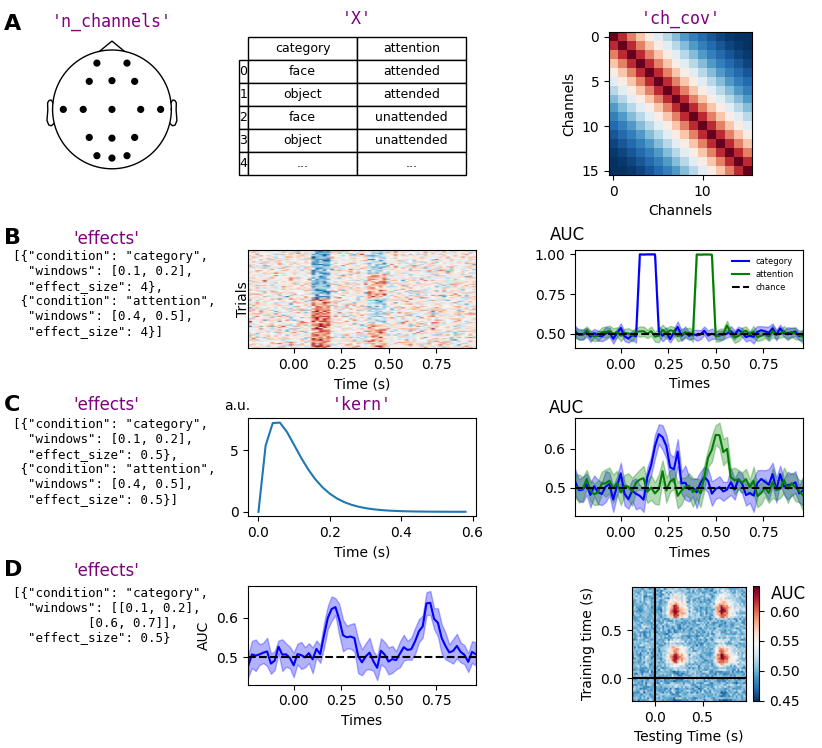
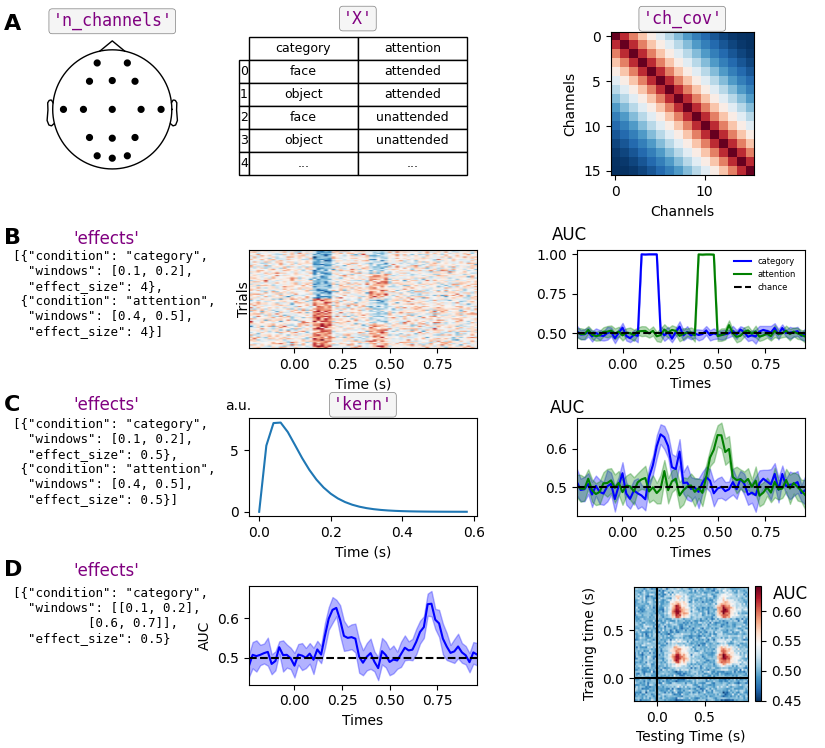
Update paper

diff --git a/paper/paper.md b/paper/paper.md
@@ -69,7 +69,7 @@ Below, we describe the rationale (Statement of needs), and the data-generation m
 
 Multivariate pattern analysis (MVPA) is now routine in cognitive neuroscience for probing how the brain represents information [@ritchie2019decoding;@haynes2006decoding;@kriegeskorte2008representational;@haxby2001distributed;@poldrack2009decoding]. Applied to high-temporal-resolution electrophysiology signals such as electro and magneto-encephalography (EEG and MEG respectively), decoding techniques reveal the millisecond-by-millisecond unfolding of mental representations [@cichy2014resolving;@king2014characterizing;@king2016brain;@cogitate2025adversarial;@kok2017prior]. Strikingly, despite the ubiquity of MVPA techniques, to our knowledge, no method exists to test the sensitivity and specificity of decoding analysis pipelines, nor to estimate, before data collection, how many trials and how many participants are required to detect an effect of a given size.
 
-MultiSim addresses this gap by letting investigators simulate time-resolved multi-channel signals with paramaters matching that of their recording setups, and specify multivariate effects with known timing, spatialization and strength, while controlling channel covariance, sensory noise and between subjects variability (see code block below for a minimal working example and \autoref{fig:pipeline} for a visualization of the pipeline). Our algorithm produces multi-subject data sets in which ground truth effects are known. By running their pipeline on these data, researchers obtain a direct read-out of its true-positive rate (can it recover the injected effects?) and false-positive rate (does it raise alarms when nothing is present). In addition, our simulator can be used to perform computational power analysis, to determine the number of trials and subjects, by iterating over these parameters.
+MultiSim addresses this gap by letting investigators simulate time-resolved multi-channel signals with paramaters matching that of their recording setups, and specify multivariate effects with known timing, spatialization and strength, while controlling channel covariance, sensory noise and between subjects variability. The code block below provides a minimal example, highlighting the simplicity with which multivariate effects can be specified with our toolbox (see \autoref{fig:pipeline}**A** for a visual representation of key parameters):
 
 ```python
 import numpy as np
@@ -90,10 +90,11 @@ sims = Simulator(
 sim.summary()  # Should return 20 subjects
 ```
 
-This toolbox promotes best-practice MVPA by giving researchers a tailored benchmark for their specific experimental designs, a testbed for developing new decoding methods, and a principled way to check that planned studies are properly powered—ultimately enabling more reliable and efficient investigations of brain function.
+Our algorithm produces multi-subject data sets in which ground truth effects are known with precise timiming (see \autoref{fig:pipeline}**B**). Furthermore, our pipelines enable full flexibility regarding the temporal dynamics of the effects (see see \autoref{fig:pipeline}**C**) as well as the temporal generalization of the injected effects (see \autoref{fig:pipeline}**D**), enabling the simulation of all patterns presented by [@king2014characterizing] (Figure 2). By running custom analysis pipeline on simulated data, researchers obtain a direct read-out of its true-positive rate (can it recover the injected effects?) and false-positive rate (does it raise alarms when nothing is present?). In addition, our simulator can be used to perform computational power analysis, to determine the number of trials and subjects, by iterating over these parameters.
 
 ![**Figure 1. Overview of the simulation and decoding framework.** **A**. General data parameters for the simulation. Left: `n_channels`  corresponds to the number of channels in the montage, with 2 experimental conditions. Middle: `X` is the design matrix (each column is an experimental condition and each row a trial). Right:  `ch_cov` is the channel by channel covariance matrix of the data to be simulated.  **B**. Minimal simulation example with effects for each experimental condition with large effect size. Left: `effects` is a dictionary that specifies the `"condition"`, time window (`"windows"`) and effect size (`"effect_size"`) of each effect to simulate. The example specifies an effect of category from 0.1 and 0.2 s with an effect size of 4, and an effect of the attention condition from 0.4 to 0.5 with an effect size of 4. Middle: example of the activation of a single channel. Right: resulting decoding accuracy (using a Support vector machine classifier). **C**. Example of simulated effects with a an added gamma kernel to simulate effects with biologically plausible temporal dynamcs. Left: `effects` similar to that of B but with effect size of 0.5 for each condition. Middle: gamma `kernel`, specifying the temporal dynamics of the multivariate effect. Right: Resulting decoding accuracy. **D**. example of simulated data with cross temporal generalization of the category effect. Left: `effects` dictionary specifies two different time windows for the effect of category as a list. Middle: resulting decoding accuracy. Right: Temporal generalization of the decoding.\label{fig:pipeline}](figure1.png){width=100%}
 
+This toolbox promotes best-practice MVPA by giving researchers a tailored benchmark for their specific experimental designs, a testbed for developing new decoding methods, and a principled way to check that planned studies are properly powered—ultimately enabling more reliable and efficient investigations of brain function.
 
 # Code Quality and Documentation
 
